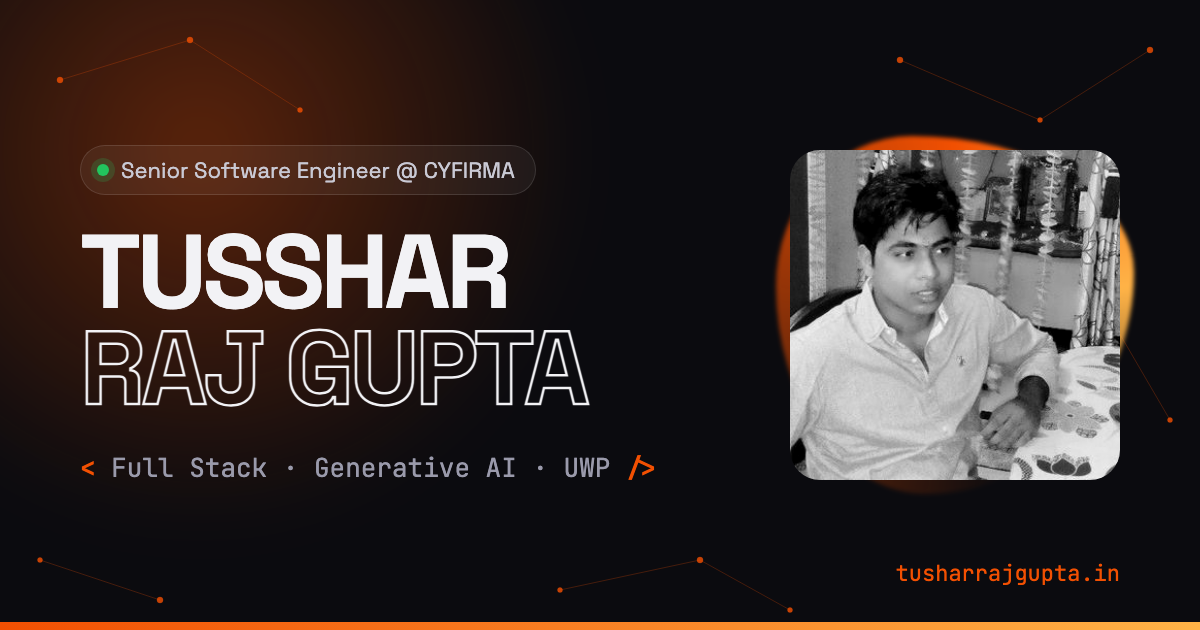
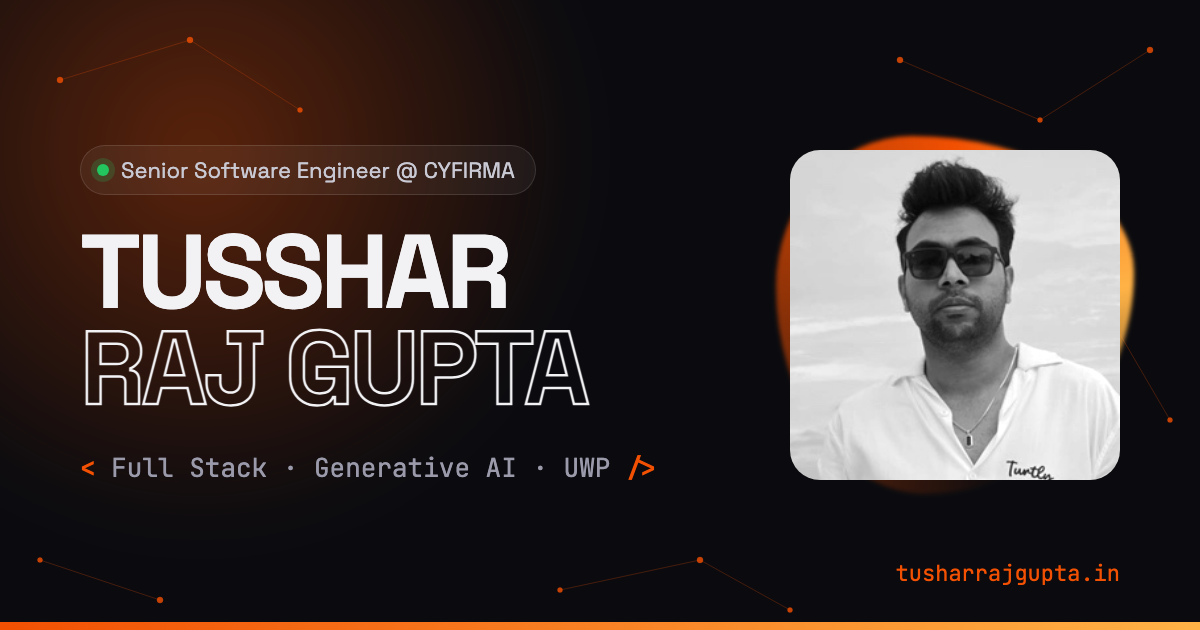
Add both name spellings for search and update profile photo
Keep "Tusshar" as the display name but add "Tushar Raj Gupta" to the page
title, meta/social descriptions, structured data (alternateName) and one
visible line in About, so searches for either spelling find the site.

Replace the profile photo with a new one (tushar-raj-gupta.jpg) everywhere
it is used, regenerate the link-preview image, and bump sitemap lastmod.

Changed region(s): [[0.6475, 0.2111, 0.9558, 0.7841]]

diff --git a/index.html b/index.html
@@ -3,8 +3,8 @@
 <head>
   <meta charset="utf-8" />
   <meta name="viewport" content="width=device-width, initial-scale=1" />
-  <title>Tusshar Raj Gupta — Senior Software Engineer</title>
-  <meta name="description" content="Tusshar Raj Gupta — Senior Software Engineer at CYFIRMA. Full stack, Generative AI and UWP developer." />
+  <title>Tusshar Raj Gupta (Tushar Raj Gupta) — Senior Software Engineer</title>
+  <meta name="description" content="Tusshar Raj Gupta (also written Tushar Raj Gupta) — Senior Software Engineer at CYFIRMA. Full stack, Generative AI and UWP developer. Projects, experience and contact." />
   <meta name="theme-color" content="#0b0b0f" />
   <meta name="author" content="Tusshar Raj Gupta" />
   <link rel="canonical" href="https://www.tusharrajgupta.in/" />
@@ -14,8 +14,8 @@
   <meta property="og:type" content="website" />
   <meta property="og:site_name" content="Tusshar Raj Gupta" />
   <meta property="og:url" content="https://www.tusharrajgupta.in/" />
-  <meta property="og:title" content="Tusshar Raj Gupta — Senior Software Engineer" />
-  <meta property="og:description" content="Senior Software Engineer at CYFIRMA. Full stack, Generative AI and UWP developer. See my projects, experience and get in touch." />
+  <meta property="og:title" content="Tusshar Raj Gupta (Tushar Raj Gupta) — Senior Software Engineer" />
+  <meta property="og:description" content="Tusshar Raj Gupta, also written Tushar Raj Gupta: Senior Software Engineer at CYFIRMA. Full stack, Generative AI and UWP developer. See my projects, experience and get in touch." />
   <meta property="og:image" content="https://www.tusharrajgupta.in/og-image.png" />
   <meta property="og:image:width" content="1200" />
   <meta property="og:image:height" content="630" />
@@ -25,8 +25,8 @@
   <!-- Twitter / X -->
   <meta name="twitter:card" content="summary_large_image" />
   <meta name="twitter:creator" content="@TusharRajGupta" />
-  <meta name="twitter:title" content="Tusshar Raj Gupta — Senior Software Engineer" />
-  <meta name="twitter:description" content="Senior Software Engineer at CYFIRMA. Full stack, Generative AI and UWP developer." />
+  <meta name="twitter:title" content="Tusshar Raj Gupta (Tushar Raj Gupta) — Senior Software Engineer" />
+  <meta name="twitter:description" content="Tusshar Raj Gupta, also written Tushar Raj Gupta: Senior Software Engineer at CYFIRMA. Full stack, Generative AI and UWP developer." />
   <meta name="twitter:image" content="https://www.tusharrajgupta.in/og-image.png" />
   <meta name="twitter:image:alt" content="Tusshar Raj Gupta — Senior Software Engineer @ CYFIRMA" />
 
@@ -39,11 +39,11 @@
         "@type": "Person",
         "@id": "https://www.tusharrajgupta.in/#person",
         "name": "Tusshar Raj Gupta",
-        "alternateName": "Tushar Raj Gupta",
+        "alternateName": ["Tushar Raj Gupta", "Tushar Gupta", "Tusshar Gupta"],
         "givenName": "Tusshar Raj",
         "familyName": "Gupta",
         "url": "https://www.tusharrajgupta.in/",
-        "image": "https://www.tusharrajgupta.in/profile_img.jpg",
+        "image": "https://www.tusharrajgupta.in/tushar-raj-gupta.jpg",
         "email": "mailto:tussharrajgupta@outlook.com",
         "jobTitle": "Senior Software Engineer",
         "description": "Senior Software Engineer at CYFIRMA, working on the DeCYFIR Threat Intelligence Platform and its Attack Surface Discovery & Intelligence pillar. Full stack, Generative AI and UWP developer.",
@@ -72,10 +72,10 @@
         "@type": "ProfilePage",
         "@id": "https://www.tusharrajgupta.in/#profile",
         "url": "https://www.tusharrajgupta.in/",
-        "name": "Tusshar Raj Gupta — Senior Software Engineer",
+        "name": "Tusshar Raj Gupta (Tushar Raj Gupta) — Senior Software Engineer",
         "isPartOf": { "@id": "https://www.tusharrajgupta.in/#website" },
         "mainEntity": { "@id": "https://www.tusharrajgupta.in/#person" },
-        "dateModified": "2026-11-15"
+        "dateModified": "2026-11-17"
       }
     ]
   }
@@ -181,7 +181,7 @@
         <div class="about__photo reveal">
           <div class="photo-ring" aria-hidden="true"></div>
           <div class="photo-frame tilt">
-            <img src="profile_img.jpg" alt="Tusshar Raj Gupta" loading="lazy"
+            <img src="tushar-raj-gupta.jpg" alt="Tusshar Raj Gupta (Tushar Raj Gupta)" loading="lazy"
                  onerror="this.style.display='none';this.parentElement.classList.add('no-img')" />
             <span class="photo-fallback">TRG</span>
           </div>
@@ -189,7 +189,7 @@
         </div>
 
         <div class="about__text">
-          <h3 class="reveal">Hi, I'm Tusshar, nice to meet you. <em>Please take a look around!</em></h3>
+          <h3 class="reveal">Hi, I'm Tusshar (also written Tushar), nice to meet you. <em>Please take a look around!</em></h3>
           <p class="reveal">First and foremost, I love writing code. Ever since my first Java program, I've been obsessed with using software to solve practical problems. Today I'm a <strong>Senior Software Engineer at CYFIRMA</strong>, building <strong>Generative AI</strong> and <strong>LLM</strong>-powered tools for cybersecurity, and I still ship <strong>web apps</strong> and <strong>UWP apps</strong> for Windows on the side.</p>
           <p class="reveal">I pick up new languages fast and care about responsive and Fluent design. When I'm not coding, I'm usually reading about space and astronomy.</p>
 
@@ -576,7 +576,7 @@
             <span class="bcard__face bcard__front">
               <span class="bcard__chip" aria-hidden="true"></span>
               <span class="bcard__top">
-                <img src="profile_img.jpg" alt="" class="bcard__photo" />
+                <img src="tushar-raj-gupta.jpg" alt="" class="bcard__photo" />
                 <span class="bcard__id">
                   <span class="bcard__name">Tusshar Raj Gupta</span>
                   <span class="bcard__role">Senior Software Engineer · CYFIRMA</span>

diff --git a/script.js b/script.js
@@ -607,7 +607,7 @@
   const downloadVcf = async () => {
     let photo = "";
     try {
-      const blob = await fetch("profile_img.jpg").then((r) => (r.ok ? r.blob() : Promise.reject()));
+      const blob = await fetch("tushar-raj-gupta.jpg").then((r) => (r.ok ? r.blob() : Promise.reject()));
       photo = await new Promise((res) => { const fr = new FileReader(); fr.onload = () => res(String(fr.result).split(",")[1] || ""); fr.readAsDataURL(blob); });
     } catch (_) {}
     const url = URL.createObjectURL(new Blob([vcardText(photo)], { type: "text/vcard;charset=utf-8" }));

diff --git a/styles.css b/styles.css
@@ -1065,3 +1065,6 @@ main:focus { outline: none; }
   .gh__stat span { display: block; font-size: 11.5px; line-height: 1.35; margin-top: 4px; }
 }
 @media (max-width: 360px) { .sidebar { padding: 0 6px; } .sidebar ul a, .sidebar__mode { width: 36px; } .sidebar ul { gap: 0; } }
+
+/* portrait photo in square frames: keep the face in view */
+.photo-frame img, .bcard__photo { object-position: 50% 22%; }
